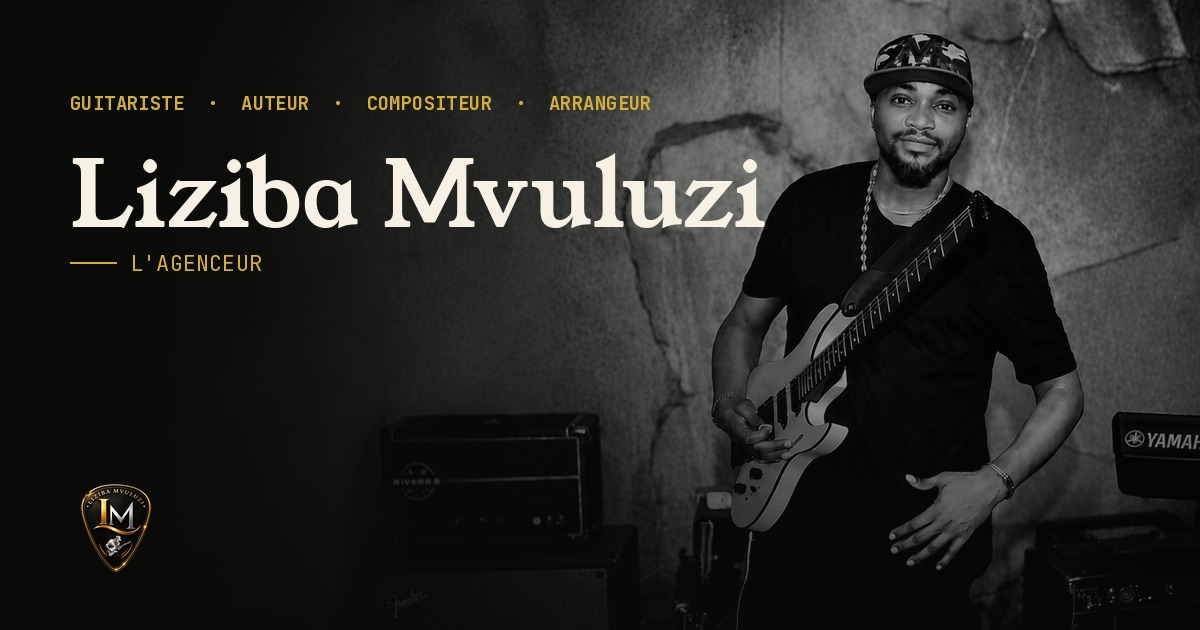
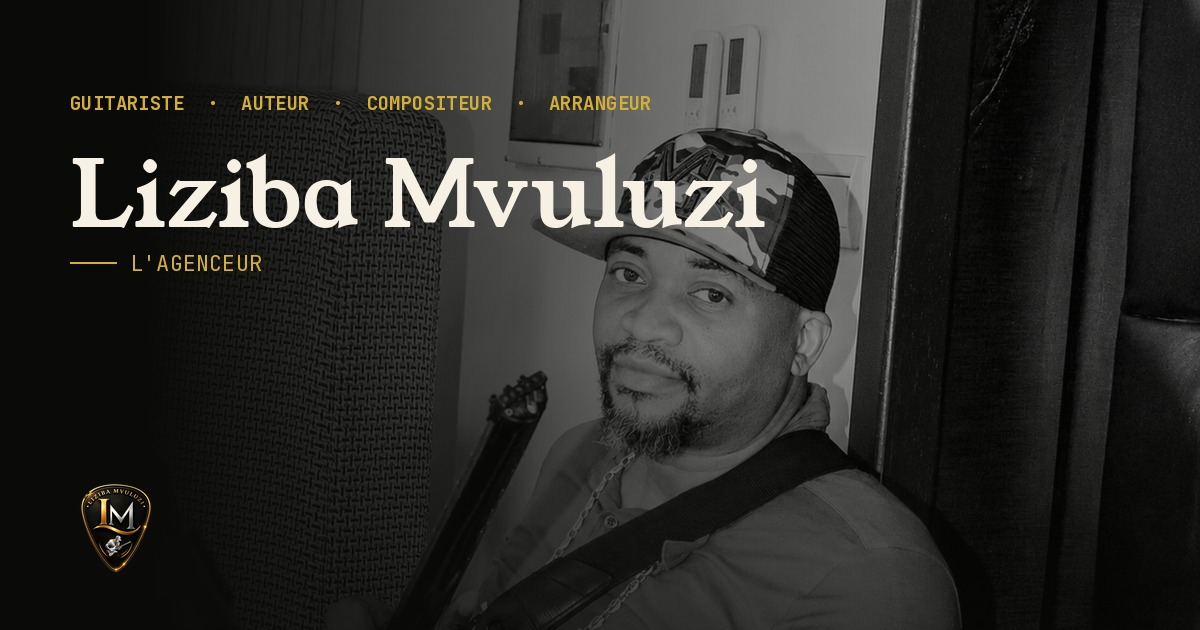
V1.4.4

diff --git a/css/style.css b/css/style.css
@@ -263,6 +263,14 @@ input, textarea, select { font: inherit; color: inherit; }
 .hero__rule { display: inline-block; width: 44px; height: 1px; background: var(--or); }
 .hero__baseline { margin-top: 1.3rem; max-width: 52ch; color: var(--gris); font-size: 1.02rem; }
 .hero__baseline strong { color: var(--blanc-casse); font-weight: 500; }
+
+/* Lisibilité mobile uniquement : le gris standard se fond dans la photo
+   sur petit écran (iPhone notamment). Couleur plus claire (ivoire doux,
+   jamais blanc pur) + opacité légèrement augmentée. Aucun autre style,
+   position, typographie ou élément du Hero n'est concerné. */
+@media (max-width: 760px) {
+  .hero__baseline { color: var(--blanc-casse); opacity: 0.86; }
+}
 .hero__actions { display: flex; gap: 1rem; margin-top: 2.8rem; flex-wrap: wrap; }
 
 .hero__scroll {

diff --git a/index.html b/index.html
@@ -69,7 +69,8 @@
     "https://music.apple.com/fr/artist/liziba-mvuluzi/1813984515",
     "https://link.deezer.com/s/340E7vIZbh4JHc9Gb6iJ9",
     "https://tidal.com/@lizibamvuluzi",
-    "https://music.amazon.fr/artists/B0FBMFZMFV"
+    "https://music.amazon.fr/artists/B0FBMFZMFV",
+    "https://www.boomplay.com/share/shareUser/195740241?srModel=COPYLINK&share_content=user&share_channel=copylink&share_platform=ios&srList=IOS"
   ]
 }
 </script>

diff --git a/CHANGELOG.md b/CHANGELOG.md
@@ -11,6 +11,40 @@ ajustements, le nettoyage ou les corrections techniques.
 
 ---
 
+## [1.4.4] — 2026-08-09
+
+### Ajouté
+- Boomplay ajouté au `sameAs` du Schema.org `Person` (`index.html`), en
+  cohérence avec `data/socials.json` (V1.4.3) — complète les deux points
+  laissés en attente lors de la précédente livraison.
+
+### Modifié
+- **Image Open Graph** régénérée avec la nouvelle photo Hero (même
+  traitement graphique : dégradé de lisibilité, typographie, logo — seule
+  la photo source change). Recadrage recalculé spécifiquement pour cette
+  image (format 1200×630, différent du Hero plein écran).
+- **Lisibilité du paragraphe descriptif du Hero, mobile uniquement.** Sur
+  petit écran (iPhone notamment), le texte gris standard se fondait dans
+  la photo. Couleur éclaircie vers un ivoire doux (`--blanc-casse` à 86 %
+  d'opacité, jamais blanc pur) — ajout scopé exclusivement à
+  `@media (max-width: 760px)`, aucune autre propriété, aucun autre
+  élément du Hero, aucune autre page concernée.
+
+### Vérifié (audit final)
+- Diff CSS isolé et relu ligne à ligne : un seul ajout (règle média
+  mobile sur `.hero__baseline`), aucune ligne existante modifiée ou
+  supprimée.
+- `index.html` : diff limité à l'ajout de l'URL Boomplay dans `sameAs`.
+- `js/main.js` confirmé strictement identique (diff vide) — aucune
+  régression sur les correctifs V1.4.2 (`initActiveNav`, `safeInit`,
+  filet `.js-ready`).
+- 404.html et les 4 pages `/pages/*.html` confirmées strictement
+  identiques (diff vide) — Fondements et YOKA Source Labs non affectées.
+- HTML équilibré sur les 6 pages, 2 blocs Schema.org valides, 6 fichiers
+  JSON valides, CSS équilibré.
+
+---
+
 ## [1.4.3] — 2026-08-09
 
 Mise à jour de contenu ciblée — aucune modification de la structure
